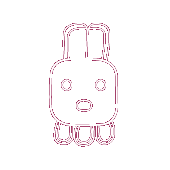
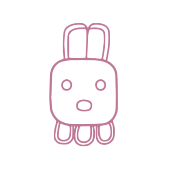
Increase quality of background images

diff --git a/index.html b/index.html
@@ -1,6 +1,7 @@
 <!DOCTYPE html>
 <html lang="en">
 <head>
+    <!-- github/brighta19 -->
     <meta charset="utf-8">
     <meta http-equiv="X-UA-Compatible" content="IE=edge">
     <meta name="description" content="An animation for The Glass Files">
@@ -58,7 +59,7 @@
         const ctx = cvs.getContext("2d");
 
         const Images = {
-            INDIVIDUAL  : "img/avatar_individual.png",
+            PERSONAL  : "img/avatar_personal.png",
             FAMILY      : "img/avatar_family.png",
             COMMUNITY   : "img/avatar_community.png",
             WORLD       : "img/avatar_world.png"
@@ -67,7 +68,7 @@
         const IMG_SIZE = 170;
 
         // Images that will be used
-        let imagesToLoad = [Images.INDIVIDUAL, Images.FAMILY, Images.COMMUNITY, Images.WORLD];
+        let imagesToLoad = [Images.PERSONAL, Images.FAMILY, Images.COMMUNITY, Images.WORLD];
         let images = {};
 
         let counter = 0;
@@ -113,7 +114,7 @@
                     ctx.save();
                     ctx.translate(IMG_SIZE / 2 + (position + x * 600), IMG_SIZE / 2 + (y * 150));
                     ctx.rotate( rotation / 180 * Math.PI );
-                    ctx.drawImage(images[Images.INDIVIDUAL], -IMG_SIZE / 2, -IMG_SIZE / 2);
+                    ctx.drawImage(images[Images.PERSONAL], -IMG_SIZE / 2, -IMG_SIZE / 2);
                     ctx.restore();
 
                     // Draw others
